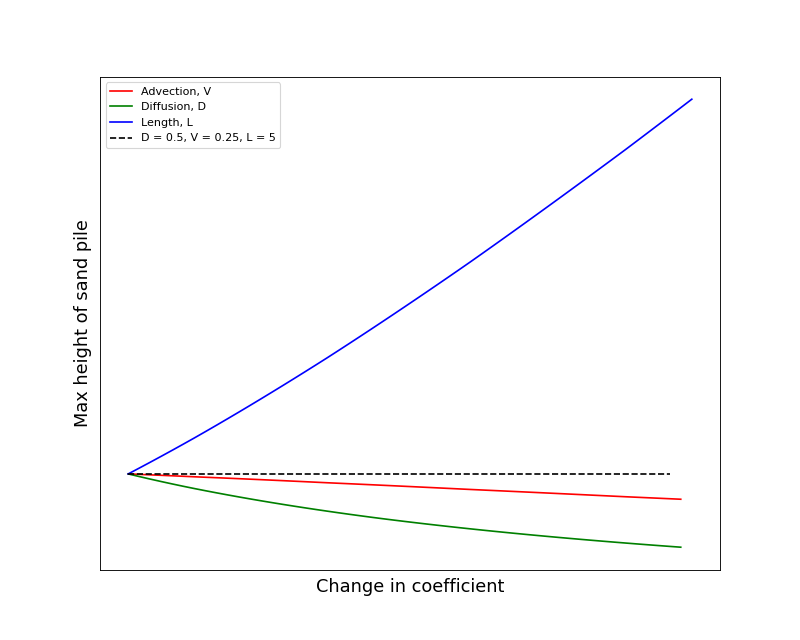
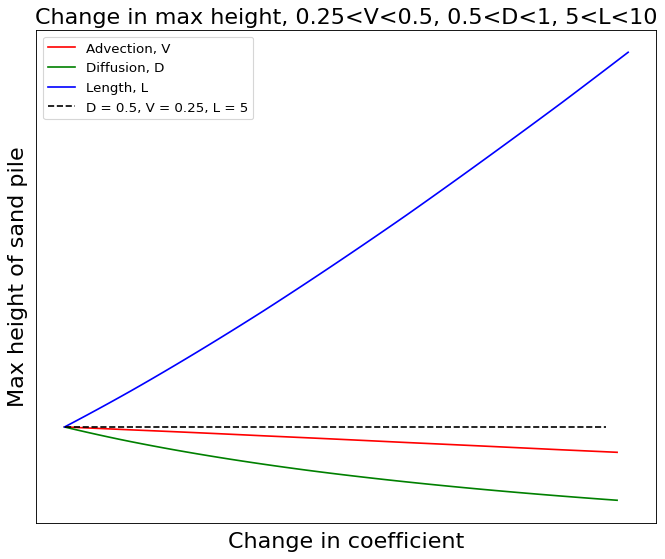
Plotting w.r.t x as sin(x) and cos(x)

diff --git a/Sand.py b/Sand.py
@@ -5,7 +5,7 @@ import matplotlib.animation
 ## ====== setting parameters =======
 
 Nt_gaps = 30000    # number of timesteps
-T = 30          # final time - we're interested in time as it gets large  
+T = 30       # final time - we're interested in time as it gets large  
 Nt_points = Nt_gaps + 1
 
 t = np.linspace(0.,T,Nt_points)  # times at each time step
@@ -105,8 +105,8 @@ def numerical(S, V, D, L):
 
 markers =['x', '+', '1', 'o']
 linestyle = ['solid', 'dotted', 'dashed', 'dashdot', 'solid']
-colours = ['red', 'green', 'blue', 'orange', 'yellow', 'purple'] # make comparison easy
-reds = ['darkred', 'crimson', 'indianred', 'red', 'lightsalmon', 'salmon']
+colours = ['red', 'green', 'blue', 'orange', 'purple', 'navy'] # make comparison easy
+reds = ['darkred', 'crimson', 'red', 'indianred', 'lightsalmon', 'salmon']
 greens =['darkgreen', 'green', 'seagreen', 'mediumseagreen','springgreen', 'palegreen']
 blues = ['navy', 'royalblue','mediumslateblue', 'dodgerblue', 'skyblue', 'lightsteelblue']
 
@@ -116,58 +116,61 @@ blues = ['navy', 'royalblue','mediumslateblue', 'dodgerblue', 'skyblue', 'lights
 # #define advection speeds
 # advection = [0.25, 0.3, 0.35, 0.4, 0.45, 0.5]
 # for i in range(0, len(advection)):
-#     label = "Exact, V=" + "%0.3f" % (advection[i])
+#     label = "Exact, V=" + "%0.6f" % (advection[i])
 #     x_dots, u_exact = exact(1.0, advection[i], 0.5, 5)
-#     plt.plot(x_dots, u_exact,color = reds[i], linestyle = ':', marker = markers[0], label = label)
+#     plt.plot(x_dots, u_exact,color = reds[i], linestyle = '', marker = markers[0], label = label)
 
-#     label = "Numerical PDE, V=" + "%0.3f" % (advection[i])
+#     label = "Numerical PDE, V=" + "%0.6f" % (advection[i])
 #     x_pde, u_num = numerical(S_constant, advection[i], 0.5, 5)
 #     plt.plot(x_pde, u_num[:,-1], color = reds[i], linestyle = 'dashed', label = label)
 
-# plt.legend()
+# plt.legend(fontsize=12)
 # plt.yticks([])
+# plt.title('Change in Advection, D = 0.5, L = 5', fontsize = 20)
 # plt.xlim(0,length) # zoom in on area of interest
-# plt.xlabel('Spacial Position, x', fontsize = 15)
-# plt.ylabel('Height, H', fontsize = 15)
-# plt.savefig('Advection Figure 1.png')
+# plt.xlabel('Spacial Position, x', fontsize = 20)
+# plt.ylabel('Height, H', fontsize = 20)
+# plt.savefig('Advection Figure 1.png', bbox_inches="tight")
 
 # plt.figure(2, figsize=(10, 8), dpi=200)
 # #define diffusion coefficients 
 # diffusion = [0.2, 0.4, 0.6, 0.8, 1.0]
 # for i in range(0, len(diffusion)):
-#     label = "Exact, D=" + "%0.3f" % (diffusion[i])
+#     label = "Exact, D=" + "%0.6f" % (diffusion[i])
 #     x_dots, u_exact = exact(1.0, 0.25, diffusion[i], 5)
-#     plt.plot(x_dots, u_exact,color = greens[i], linestyle = ':', marker = markers[0], label = label)
+#     plt.plot(x_dots, u_exact,color = greens[i], linestyle = '', marker = markers[0], label = label)
 
-#     label = "Numerical PDE, D=" + "%0.3f" % (diffusion[i])
+#     label = "Numerical PDE, D=" + "%0.6f" % (diffusion[i])
 #     x_pde, u_num = numerical(S_constant, 0.25, diffusion[i], 5)
 #     plt.plot(x_pde, u_num[:,-1], color = greens[i], linestyle = 'dashed', label = label)
 
-# plt.legend()
+# plt.legend(fontsize=12)
 # plt.yticks([])
+# plt.title('Change in Diffusion, V = 0.25, L = 5', fontsize=20)
 # plt.xlim(0,length) # zoom in on area of interest
-# plt.xlabel('Spacial Position, x', fontsize = 15)
-# plt.ylabel('Height, H', fontsize = 15)
-# plt.savefig('Diffusion Figure 1.png')
+# plt.xlabel('Spacial Position, x', fontsize = 20)
+# plt.ylabel('Height, H', fontsize = 20)
+# plt.savefig('Diffusion Figure 1.png', bbox_inches="tight")
 
 # plt.figure(3, figsize=(10, 8), dpi=200)
 # #define lengths
 # lengths = [5,6,7,8,9,10]
 # for i in range(0, len(lengths)):
-#     label = "Exact, L=" + "%0.3f" % (lengths[i])
+#     label = "Exact, L=" + "%0.6f" % (lengths[i])
 #     x_dots, u_exact = exact(1.0, 0.25, 0.5, lengths[i])
-#     plt.plot(x_dots, u_exact,color = blues[i], linestyle = ':', marker = markers[0], label = label)
+#     plt.plot(x_dots, u_exact,color = blues[i], linestyle = '', marker = markers[0], label = label)
 
-#     label = "Numerical PDE, L=" + "%0.3f" % (lengths[i])
+#     label = "Numerical PDE, L=" + "%0.6f" % (lengths[i])
 #     x_pde, u_num = numerical(S_constant, 0.25, 0.5, lengths[i])
 #     plt.plot(x_pde, u_num[:,-1], color = blues[i], linestyle = 'dashed', label = label)
 
-# plt.legend()
+# plt.legend(fontsize=12)
 # plt.yticks([])
+# plt.title('Change in Length, V = 0.25, D = 0.5', fontsize=20)
 # plt.xlim(0,max(lengths)) # zoom in on area of interest
-# plt.xlabel('Spacial Position, x', fontsize = 15)
-# plt.ylabel('Height, H', fontsize = 15)
-# plt.savefig('Length Figure 1.png')
+# plt.xlabel('Spacial Position, x', fontsize = 20)
+# plt.ylabel('Height, H', fontsize = 20)
+# plt.savefig('Length Figure 1.png', bbox_inches="tight")
 
 # plt.figure(3_2, figsize=(10, 8), dpi=200)
 # #define lengths
@@ -208,34 +211,139 @@ blues = ['navy', 'royalblue','mediumslateblue', 'dodgerblue', 'skyblue', 'lights
 # plt.plot(max_height_length, label = 'Length, L', color = 'blue')
 
 # plt.plot(max(exact(1.0, 0.25, 0.5, length)[-1])*np.ones(Nintervals), linestyle = 'dashed', color='Black', label = 'D = 0.5, V = 0.25, L = 5')
-# plt.legend()
+# plt.legend(fontsize=12)
+# plt.title('Change in max height, 0.25<V<0.5, 0.5<D<1, 5<L<10', fontsize=20)
 # plt.yticks([])
 # plt.xticks([])
-# plt.xlabel('Change in coefficient', fontsize = 16)
-# plt.ylabel('Max height of sand pile', fontsize = 16)
-# plt.savefig('Figure Height.png')
+# plt.xlabel('Change in coefficient', fontsize = 20)
+# plt.ylabel('Max height of sand pile', fontsize = 20)
+# plt.savefig('Figure Height.png', bbox_inches="tight")
 
-# ===== S(x, t) non-constant, fix length as 5, D = 0.2, V = 0.5=====
+# ===== S(x, t) non-constant - Space dependent =====
 
-plt.figure(6, figsize=(10, 8), dpi=200)
+# plt.figure(6, figsize=(10, 8), dpi=200)
 
-xLo, xHi = 0,5
+xLo, xHi = 0, 5
 def S_linear_space(x, t):
     if xLo < x < xHi:
         return 5.0/(xHi-xLo)
     else:
         return 0.0
 
-xvals = [[0,5], [0, 4], [0,3], [0,2], [0, 1]]
-for i in range(0, len(xvals)):
-    label = "Dump sand at in (" + "%0.3f" % (int(xvals[i][0])) + ", " + "%0.3f" % (int(xvals[i][1])) + ")"
-    xLo, xHi = xvals[i][0], xvals[i][1]
-    x_pde, u_num = numerical(S_linear_space, 0.5, 0.2, 5)
-    plt.plot(x_pde, u_num[:,-1], color = colours[i], label = label)
+# xvals = [[0,5],[0,4],[0,3],[0,2],[0,1]]
+# for i in range(0, len(xvals)):
+#     xLo, xHi = xvals[i][0], xvals[i][1]
+#     label = "Dump sand from (" + "%0.3f" % (int(xLo)) + " to " + "%0.3f" % (int(xHi)) + ")"
+#     x_pde, u_num = numerical(S_linear_space, 0.5, 0.5, 5)
+#     plt.plot(x_pde, u_num[:,-1], color = colours[i], label = label)
 
-plt.legend()
+# plt.legend(fontsize=18)
+# plt.yticks([])
+# plt.xlim(0,length) # zoom in on area of interest
+# plt.title('Dropping sand at increasing intervals of x', fontsize = 20)
+# plt.xlabel('Spacial Position, x', fontsize = 20)
+# plt.ylabel('Height, H', fontsize = 20)
+# plt.savefig('Sand with intervals of x.png', bbox_inches="tight")
+
+
+# plt.figure(7, figsize=(10, 8), dpi=200)
+
+# xvals = [[0,5],[4,5],[3,4],[2,3],[1,2],[0,1]]
+# for i in range(0, len(xvals)):
+#     xLo, xHi = xvals[i][0], xvals[i][1]
+#     label = "Dump sand from (" + "%0.3f" % (int(xLo)) + " to " + "%0.3f" % (int(xHi)) + ")"
+#     x_pde, u_num = numerical(S_linear_space, 0.5, 0.5, 5)
+#     plt.plot(x_pde, u_num[:,-1], color = colours[i], label = label)
+
+# plt.legend(fontsize=18)
+# plt.yticks([])
+# plt.xlim(0,length) # zoom in on area of interest
+# plt.title('Dropping sand at intervals of x with length 1', fontsize = 20)
+# plt.xlabel('Spacial Position, x', fontsize = 20)
+# plt.ylabel('Height, H', fontsize = 20)
+# plt.savefig('Sand with intervals of x 2.png', bbox_inches="tight")
+
+
+# plt.figure(8, figsize=(10, 8), dpi=200)
+
+# xLo, xHi = 0, 5
+# def S_linear_space_restricted(x, t):
+#     if xLo < x < xHi:
+#         return 1.0
+#     else:
+#         return 0.0
+
+# xvals = [[0,1], [0,2], [0,3], [0,4], [0,5]]
+# for i in range(0, len(xvals)):
+#     xLo, xHi = xvals[i][0], xvals[i][1]
+#     label = "Dump sand from (" + "%0.3f" % (int(xLo)) + " to " + "%0.3f" % (int(xHi)) + ")"
+#     x_pde, u_num = numerical(S_linear_space_restricted, 0.5, 0.5, 5)
+#     plt.plot(x_pde, u_num[:,-1], color = colours[i], label = label)
+
+# plt.legend()
+# plt.yticks([])
+# plt.xlim(0,length) # zoom in on area of interest
+# plt.xlabel('Spacial Position, x', fontsize = 20)
+# plt.ylabel('Height, H', fontsize = 20)
+# plt.savefig('Sand with intervals of x 3.png', bbox_inches="tight")
+
+plt.figure(9, figsize=(10, 8), dpi=200)
+
+xLo, xHi = 0, 5
+def S_sin(x, t):
+    return 5*np.abs(np.sin(x))/(3+np.cos(5))
+
+def S_cos(x, t):
+    return 5*np.abs(np.cos(x))/(4+np.sin(5))
+
+def S_even(x, t):
+    return 2*int(int(x) % 2 == 0)
+
+label = "Dump sand as sin(x)"
+x_pde, u_num = numerical(S_sin, 0.5, 0.5, 5)
+plt.plot(x_pde, u_num[:,-1], color = colours[1], label = label)
+
+label = "Dump sand as cos(x)"
+x_pde, u_num = numerical(S_cos, 0.5, 0.5, 5)
+plt.plot(x_pde, u_num[:,-1], color = colours[2], label = label)
+
+label = "Dump sand every other x position"
+x_pde, u_num = numerical(S_even, 0.5, 0.5, 5)
+plt.plot(x_pde, u_num[:,-1], color = colours[3], label = label)
+
+label = "Dump sand over all S"
+x_pde, u_num = numerical(S_linear_space, 0.5, 0.5, 5)
+plt.plot(x_pde, u_num[:,-1], color = colours[0], label = label)
+
+plt.legend(fontsize=18)
 plt.yticks([])
 plt.xlim(0,length) # zoom in on area of interest
-plt.xlabel('Spacial Position, x', fontsize = 15)
-plt.ylabel('Height, H', fontsize = 15)
-plt.savefig('Sand with intervals of x.png')
+plt.title('Alternative hopper methods', fontsize = 20)
+plt.xlabel('Spacial Position, x', fontsize = 20)
+plt.ylabel('Height, H', fontsize = 20)
+plt.savefig('Sand with x sin.png', bbox_inches="tight")
+
+# ===== S(x, t) non-constant - Time dependent =====
+
+# plt.figure(7, figsize=(10, 8), dpi=200)
+# T = 100
+# tOn = 2
+# def S_variable_time(x, t):
+#     if round(t) % tOn == 0 and t < 50:
+#         return tOn
+#     else:
+#         return 0
+
+# tvals = [1, 2, 5, 10, 20]
+# for i in range(0, len(tvals)):
+#     tOn = tvals[i]
+#     label = "Dump sand every " + "%0.3f" % tOn + " time"
+#     x_pde, u_num = numerical(S_variable_time, 0.5, 0.5, 5)
+#     plt.plot(x_pde, u_num[:,-1], color = colours[i], label = label)
+
+# plt.legend()
+# plt.yticks([])
+# plt.xlim(0,length) # zoom in on area of interest
+# plt.xlabel('Time, t', fontsize = 15)
+# plt.ylabel('Height, H', fontsize = 15)
+# plt.savefig('Sand with intervals of t.png')
